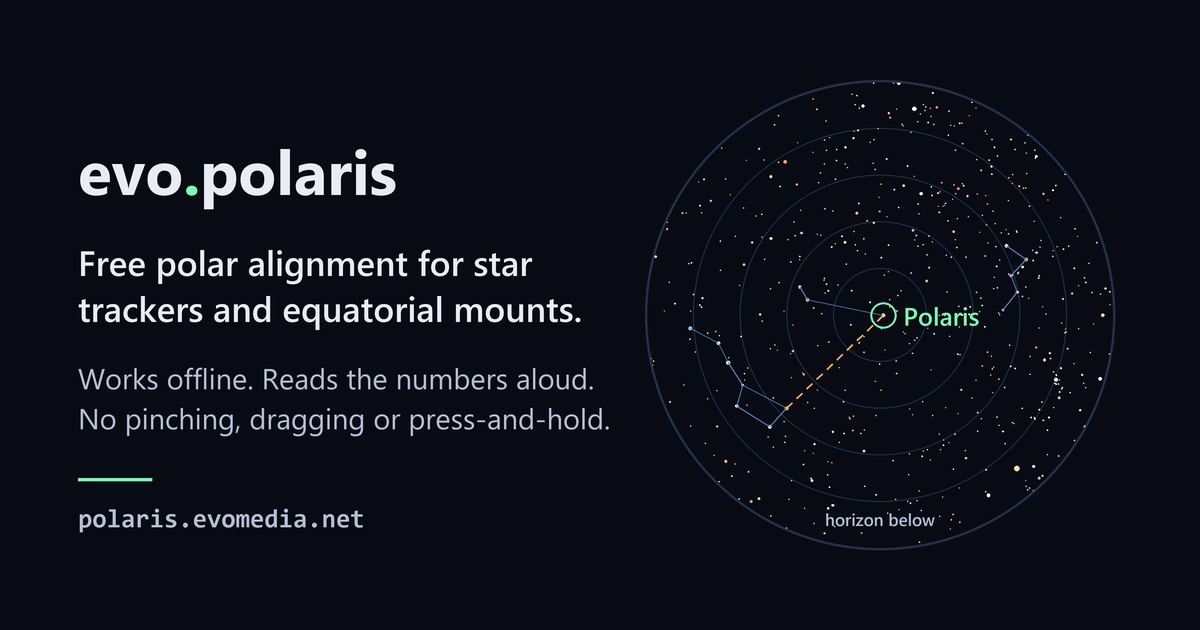
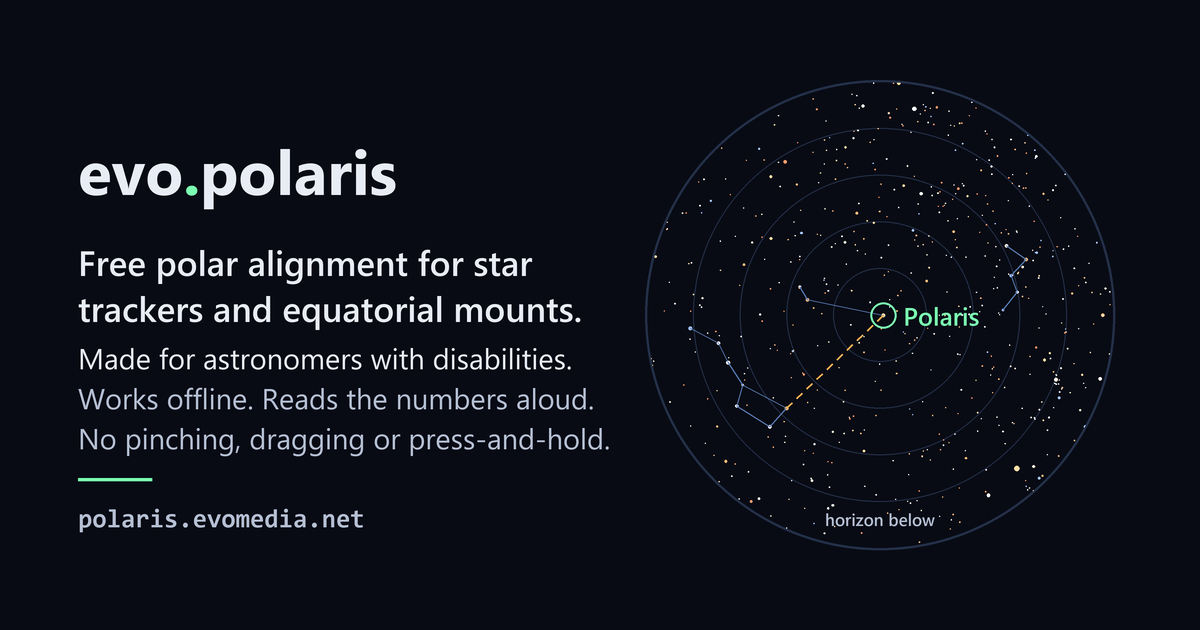
docs(meta): say on the shared card that this was made for astronomers with disabilities (#156)
Kelly, looking at the WhatsApp preview of the link he had just sent
someone: "This needs to have a blurb about the fact that it was
specifically made to help people with disabilities."

It was already the first thing the README says -- "built to be usable by
astronomers who can't crouch behind an eyepiece, hold a phone steady, or
work a fiddly touch target in the dark", and "every app that does this
today costs money and assumes a body that cooperates". None of it ever
reached the link preview, which for an app shared one message at a time
IS the first impression. The card described what it does and never who
it is for, so the one thing that makes it different from every paid
alternative was the one thing a shared link left out.

- The description, og:description and twitter:description now lead with
  it: "made for astronomers with disabilities".
- The card carries it as the first supporting line, in the brighter ink,
  above the two that are its evidence. Without them the sentence is a
  claim; with them it is a description.
- The paragraph block starts 20px higher to fit a third line, ending at
  458 against the accent rule at 478.
- og-card.png moves to ?v=3. Scrapers key on the image URL, so a card
  that changes at the same address is a card nobody re-fetches -- the
  same reason it needed ?v=2.
- The cache key moves to 0.0.0.1.35, and the stamp with it.

"open source at release" came out of the description to make room. It is
[…]

Changed region(s): [[0.0617, 0.5429, 0.5242, 0.7238]]

diff --git a/site/index.html b/site/index.html
@@ -5,7 +5,7 @@
 <meta name="viewport" content="width=device-width, initial-scale=1, viewport-fit=cover">
 <meta name="theme-color" content="#080b14">
 <title>evo.polaris — polar alignment</title>
-<meta name="description" content="Free polar alignment for star trackers and equatorial mounts, open source at release. Works offline, reads the numbers aloud, and never asks you to pinch, drag or press-and-hold.">
+<meta name="description" content="Free polar alignment for star trackers and equatorial mounts, made for astronomers with disabilities. It works offline, reads every number aloud, and never asks you to pinch, drag or press-and-hold.">
 <link rel="canonical" href="https://polaris.evomedia.net/">
 
 <!-- Open Graph. The page is shared by link - in forums, in messages, to one
@@ -15,17 +15,17 @@
 <meta property="og:type" content="website">
 <meta property="og:site_name" content="evo.polaris">
 <meta property="og:title" content="evo.polaris — polar alignment">
-<meta property="og:description" content="Free polar alignment for star trackers and equatorial mounts, open source at release. Works offline, reads the numbers aloud, and never asks you to pinch, drag or press-and-hold.">
+<meta property="og:description" content="Free polar alignment for star trackers and equatorial mounts, made for astronomers with disabilities. It works offline, reads every number aloud, and never asks you to pinch, drag or press-and-hold.">
 <meta property="og:url" content="https://polaris.evomedia.net/">
-<meta property="og:image" content="https://polaris.evomedia.net/og-card.png?v=2">
+<meta property="og:image" content="https://polaris.evomedia.net/og-card.png?v=3">
 <meta property="og:image:type" content="image/png">
 <meta property="og:image:width" content="1200">
 <meta property="og:image:height" content="630">
 <meta property="og:image:alt" content="The evo.polaris sky chart: Polaris circled at the pole, with the Big Dipper's pointer stars aimed at it.">
 <meta name="twitter:card" content="summary_large_image">
 <meta name="twitter:title" content="evo.polaris — polar alignment">
-<meta name="twitter:description" content="Free polar alignment for star trackers and equatorial mounts, open source at release. Works offline, reads the numbers aloud, and never asks you to pinch, drag or press-and-hold.">
-<meta name="twitter:image" content="https://polaris.evomedia.net/og-card.png?v=2">
+<meta name="twitter:description" content="Free polar alignment for star trackers and equatorial mounts, made for astronomers with disabilities. It works offline, reads every number aloud, and never asks you to pinch, drag or press-and-hold.">
+<meta name="twitter:image" content="https://polaris.evomedia.net/og-card.png?v=3">
 <meta name="twitter:image:alt" content="The evo.polaris sky chart: Polaris circled at the pole, with the Big Dipper's pointer stars aimed at it.">
 
 <link rel="icon" href="src/data/icon.svg" type="image/svg+xml">

diff --git a/site/sw.js b/site/sw.js
@@ -17,7 +17,7 @@
 //
 // This is a CACHE KEY, not the release stamp. build-version.json stays where
 // it is; the build advances once per release on the default branch.
-const VERSION = '0.0.0.1.34';
+const VERSION = '0.0.0.1.35';
 const CACHE = `evo-polaris-${VERSION}`;
 
 const ASSETS = [

diff --git a/scripts/make_og_card.py b/scripts/make_og_card.py
@@ -88,8 +88,15 @@ CHART_CX, CHART_CY, CHART_D = 880, 315, 470
 
 TITLE = "evo.polaris"
 HEADLINE = ["Free polar alignment for star", "trackers and equatorial mounts."]
-# The supporting paragraph. Both sentences are the README's claims, unchanged.
-PARAGRAPH = ["Works offline. Reads the numbers aloud.",
+# The supporting paragraph. Every line is a README claim, unchanged.
+#
+# WHO IT IS FOR GOES FIRST, AND IN THE BRIGHTER INK. The card said what the app
+# does and never who it was built for, so the one thing that makes it different
+# from every paid alternative was the one thing a shared link left out. The two
+# lines under it are the evidence for the first: without them "made for
+# astronomers with disabilities" is a claim, and with them it is a description.
+PARAGRAPH = ["Made for astronomers with disabilities.",
+             "Works offline. Reads the numbers aloud.",
              "No pinching, dragging or press-and-hold."]
 DOMAIN = "polaris.evomedia.net"
 
@@ -211,10 +218,13 @@ def build(shot: Path | None = None) -> Image.Image:
         draw.text((PAD * SS, y), line, font=f_head, fill=INK)
         y += 46 * SS
 
+    # Three lines now rather than two, so the block starts higher: 338 + three
+    # 40s ends at 458, which still clears the accent rule at 478.
     f_para = font(SANS, 29 * SS)
-    y = 358 * SS
-    for line in PARAGRAPH:
-        draw.text((PAD * SS, y), line, font=f_para, fill=DIM)
+    y = 338 * SS
+    for index, line in enumerate(PARAGRAPH):
+        draw.text((PAD * SS, y), line, font=f_para,
+                  fill=INK if index == 0 else DIM)
         y += 40 * SS
 
     draw.rectangle((PAD * SS, 478 * SS, (PAD + 74) * SS, 481 * SS), fill=ACCENT)
